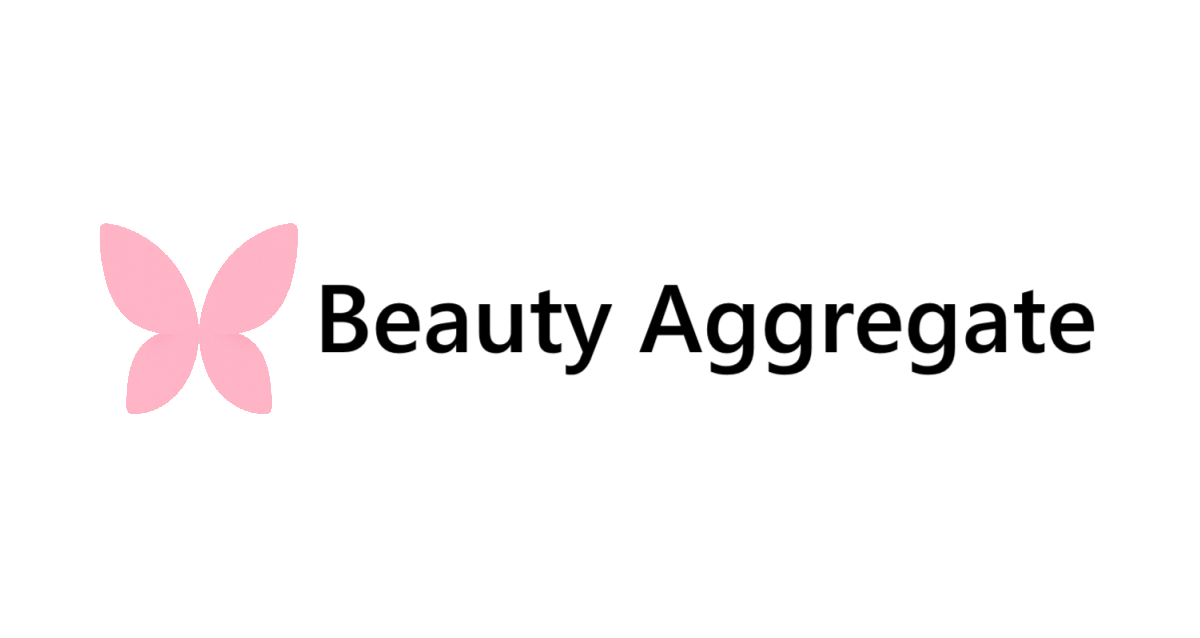
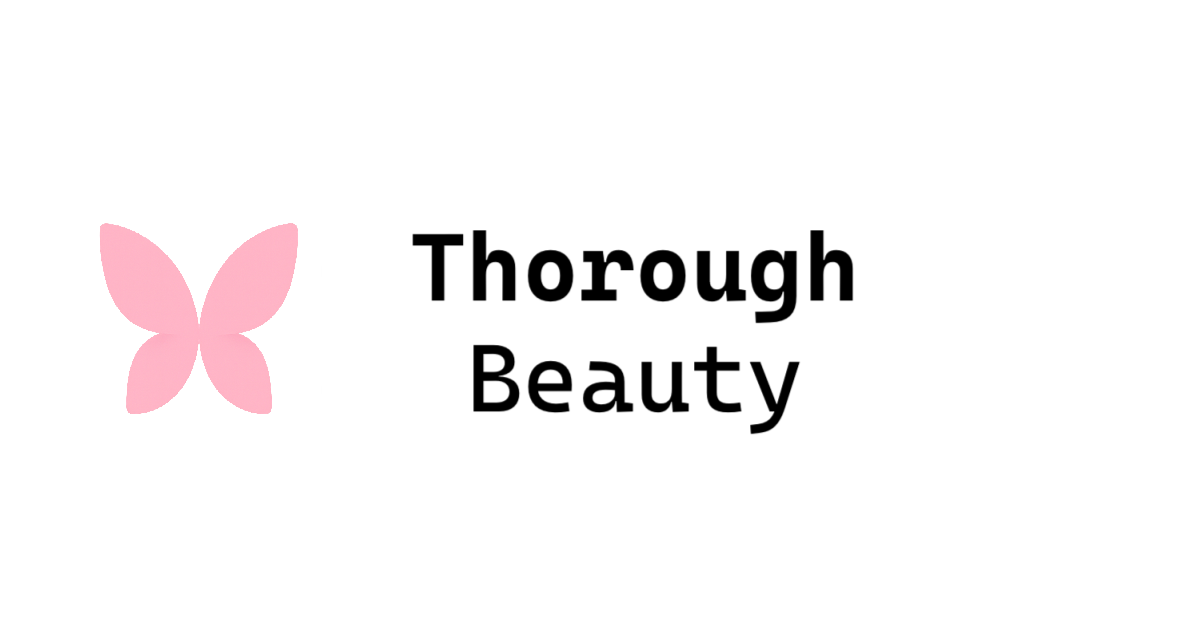
thorough beauty migration

Changed region(s): [[0.2467, 0.3574, 0.925, 0.685]]

diff --git a/src/app/about/page.tsx b/src/app/about/page.tsx
@@ -1,15 +1,19 @@
 import  { Metadata } from "next";
 
 export const metadata: Metadata = {
-    title: "About"
+    title: "About",
+    // With metadataBase set in root layout, this relative path resolves to the full canonical URL
+    alternates: {
+        canonical: "/about",
+    },
 }
 
 const jsonLd = {
   "@context": "https://schema.org",
   "@type": "AboutPage",
-  "name": "About Beauty Aggregate",
-  "url": "https://www.beautyaggregate.com/about",
-  "description": "Beauty Aggregate analyzes skincare and beauty discussions from Reddit to provide unbiased product insights and rankings. No sponsored content, no hidden agendas, just data-driven analysis.",
+  "name": "About Thorough Beauty",
+  "url": "https://www.thoroughbeauty.com/about",
+  "description": "Thorough Beauty analyzes skincare and beauty discussions from Reddit to provide unbiased product insights and rankings. No sponsored content, no hidden agendas, just data-driven analysis.",
 };
 
 
@@ -36,7 +40,7 @@ export default function AboutPage() {
             <div className="bg-base-100 p-6 shadow-lg w-full border-base-300 border rounded-none">
                 <h2 className="text-l font-semibold">Real Reviews. No Sponsorships</h2>
                 <p className="mt-4 text-sm">
-                    At Beauty Aggregate, we believe that the best beauty and skincare advice doesn’t come from ads—it comes from real people sharing real experiences. That’s why we built this site: to help you discover the most loved and most talked-about beauty and skincare products according to real users on Reddit.
+                    At Thorough Beauty, we believe that the best beauty and skincare advice doesn’t come from ads—it comes from real people sharing real experiences. That’s why we built this site: to help you discover the most loved and most talked-about beauty and skincare products according to real users on Reddit.
                 </p>
                 <p className="mt-4 text-sm">
                     Every product guide and ranking you see here is based on thousands of authentic Reddit comments from skincare communities like r/SkincareAddiction, r/AsianBeauty, r/30PlusSkinCare, and more. We analyze what people are actually saying—what they love, what they hate, and what actually works.
@@ -73,7 +77,7 @@ export default function AboutPage() {
             <div className="bg-base-100 p-6 shadow-lg w-full border-base-300 border rounded-none">
                 <h2 className="text-l font-semibold">Get in Touch</h2>
                 <p className="mt-4 text-sm">
-                    Have questions or feedback? Feel free to reach out to us at <a href="mailto:beauty.aggregate@gmail.com" className="text-blue-500 underline">beauty.aggregate@gmail.com</a>. We&apos;d love to hear your thoughts!
+                    Have questions or feedback? Feel free to reach out to us at <a href="mailto:reddit.beauty.reviews@gmail.com" className="text-blue-500 underline">Contact Us</a>. We&apos;d love to hear your thoughts!
                 </p>
             </div>
         </div>

diff --git a/src/app/posts/[slug]/page.tsx b/src/app/posts/[slug]/page.tsx
@@ -7,6 +7,7 @@ import { notFound, redirect } from "next/navigation";
 import Image from "next/image";
 import type { Metadata } from "next";
 import { Post } from "../../../types"; 
+import { APP_URL } from "@/constants";
 
 // 👇 Static mode for SEO
 export const dynamicParams = true;
@@ -66,7 +67,6 @@ const getPostBySlug = cache(async (slug: string): Promise<Post | null> => {
       seo{
         metaTitle,
         metaDescription,
-        canonicalUrl,
         ogTitle,
         ogDescription,
         ogImage{asset, alt},
@@ -159,7 +159,7 @@ export async function generateMetadata({
     };
   }
 
-  const baseUrl = "https://www.beautyaggregate.com";
+  const baseUrl = APP_URL;
   const url = `${baseUrl}/posts/${post.slug}`;
 
   const fallbackDesc = extractPlainTextDescription(post.body);
@@ -179,11 +179,8 @@ export async function generateMetadata({
       ? post.seo.twitterCard
       : "summary_large_image";
 
-  // Guard canonical to HTTPS absolute only; otherwise fallback to local URL
-  const canonicalFromCms = post.seo?.canonicalUrl;
-  const canonicalUrl = canonicalFromCms && /^https:\/\/.+/i.test(canonicalFromCms)
-    ? canonicalFromCms
-    : url;
+  // Canonical should always be our site base + slug (ignore CMS canonical)
+  const canonicalUrl = url;
 
   return {
     title: metaTitle,
@@ -205,7 +202,7 @@ export async function generateMetadata({
       description: post.seo?.ogDescription || metaDescription,
       images: bestImageUrl ? [{ url: bestImageUrl, alt: bestImageAlt }] : [],
       locale: post.locale || 'en-GB',
-      siteName: 'Beauty Aggregate',
+      siteName: 'Thorough Beauty',
       publishedTime: post.publishedAt,
       modifiedTime: post.dateModified || post.publishedAt,
       authors: post.author?.name ? [post.author.name] : undefined,
@@ -235,7 +232,7 @@ export default async function DeepDivePage({
     notFound();
   }
 
-  const baseUrl = "https://www.beautyaggregate.com";
+  const baseUrl = APP_URL;
   const pageUrl = `${baseUrl}/posts/${post.slug}`;
   const description = post.seo?.metaDescription || post.excerpt || extractPlainTextDescription(post.body);
   const heroImgRef = post.seo?.ogImage?.asset?._ref || post.ogImage?.asset?._ref || post.mainImage?.asset?._ref;

diff --git a/src/app/layout.tsx b/src/app/layout.tsx
@@ -8,19 +8,19 @@ import { GoogleAnalytics } from '@next/third-parties/google'
 
 export const metadata: Metadata = {
   title: {
-    default: "Beauty Aggregate",
-    template: "%s | Beauty Aggregate",
+    default: "Thorough Beauty",
+    template: "%s | Thorough Beauty",
   },
   description: "Discover the most talked about skincare and beauty products on Reddit.",
   keywords: [
-    "Beauty Aggregate",
-    "Beauty Aggregate skincare",
-    "Beauty Aggregate product reviews",
-    "best skincare Beauty Aggregate",
-    "beauty products ranked by Beauty Aggregate",
-    "Beauty Aggregate beauty tips"
+    "Thorough Beauty",
+    "Thorough Beauty skincare",
+    "Thorough Beauty product reviews",
+    "best skincare Thorough Beauty",
+    "beauty products ranked by Thorough Beauty",
+    "beauty tips by Thorough Beauty"
   ],
-  metadataBase: new URL("https://www.beautyaggregate.com"),
+  metadataBase: new URL("https://www.thoroughbeauty.com"),
   robots: {
     index: true,
     follow: true,
@@ -41,16 +41,16 @@ export default function RootLayout({
   const jsonLd = {
     "@context": "https://schema.org",
     "@type": "WebSite",
-    name: "Beauty Aggregate",
-    url: "https://www.beautyaggregate.com",
+    name: "Thorough Beauty",
+    url: "https://www.thoroughbeauty.com",
     description: "Discover the most talked about skincare and beauty products on Reddit.",
-    alternateName: ["Beauty Aggregate", "BeautyAggregate", "Beauty Aggregate & Skincare"],
+    alternateName: ["Thorough Beauty", "ThoroughBeauty", "Thorough Beauty & Skincare"],
   };
 
   return (
     <html lang="en" className={open_sans.className}>
       <head>
-        <meta property="og:site_name" content="Beauty Aggregate" />
+        <meta property="og:site_name" content="Thorough Beauty" />
         <script
             type="application/ld+json"
             dangerouslySetInnerHTML={{

diff --git a/src/app/posts/page.tsx b/src/app/posts/page.tsx
@@ -6,9 +6,18 @@ import Link from "next/link";
 import { PortableTextBlock } from "@portabletext/react";
 import Image from "next/image";
 import { Post } from "../../types";
+import type { Metadata } from "next";
 
 export const dynamicParams = true;
 export const revalidate = 3600;
+
+// Basic SEO metadata for the posts index page
+export const metadata: Metadata = {
+  title: "Blog Posts | Thorough Beauty",
+  description:
+    "Deep dives and data breakdowns from the Thorough Beauty team.",
+  alternates: { canonical: "/posts" },
+};
 
 const builder = imageUrlBuilder(client);
 
@@ -67,13 +76,13 @@ export default async function PostsPage() {
   const overviewJsonLd = {
     "@context": "https://schema.org",
     "@type": "Blog",
-    "name": "Beauty Aggregate | Blog",
-    "url": "https://www.beautyaggregate.com/posts",
-    "description": "Deep dives, data breakdowns, and honest skincare discussions from the Beauty Aggregate team.",
+    "name": "Thorough Beauty | Blog",
+    "url": "https://www.thoroughbeauty.com/posts",
+    "description": "Deep dives, data breakdowns, and honest skincare discussions from the Thorough Beauty team.",
     "blogPost": posts.map((post) => ({
       "@type": "BlogPosting",
       "headline": post.title,
-      "url": `https://www.beautyaggregate.com/posts/${post.slug}`,
+      "url": `https://www.thoroughbeauty.com/posts/${post.slug}`,
       ...(post.mainImage?.asset?._ref && {
         "image": urlFor(post.mainImage.asset._ref)
       }),

diff --git a/src/app/sitemap.ts b/src/app/sitemap.ts
@@ -23,18 +23,8 @@ type ProductDoc = {
   lastUpdated?: string;
 };
 
-// Guard: prefer HTTPS same-domain canonical from CMS; otherwise fallback to local site URL
-function canonicalForPost(slug: string, cmsCanonical?: string): string {
-  if (cmsCanonical) {
-    try {
-      const u = new URL(cmsCanonical);
-      if (u.protocol === "https:" && cmsCanonical.startsWith(`${APP_URL}/`)) {
-        return cmsCanonical;
-      }
-    } catch {
-      // ignore invalid URL
-    }
-  }
+// Canonical for posts: always our site base + slug
+function canonicalForPost(slug: string): string {
   return `${APP_URL}/posts/${slug}`;
 }
 
@@ -110,15 +100,14 @@ async function generateSitemap(): Promise<MetadataRoute.Sitemap> {
       && !(_id in path("drafts.**"))
     ]{
       "slug": slug.current,
-      "lastmod": coalesce(dateModified, publishedAt),
-      "canonicalUrl": seo.canonicalUrl
+      "lastmod": coalesce(dateModified, publishedAt)
     }`),
     // Categories (Firestore)
     fetchCategories()
   ]);
 
-  const postEntries: SitemapEntry[] = posts.map((post: { slug: string; lastmod?: string; canonicalUrl?: string }) => ({
-    url: canonicalForPost(post.slug, post.canonicalUrl),
+  const postEntries: SitemapEntry[] = posts.map((post: { slug: string; lastmod?: string }) => ({
+    url: canonicalForPost(post.slug),
     lastModified: post.lastmod,
   }));
 

diff --git a/src/app/faq/page.tsx b/src/app/faq/page.tsx
@@ -2,6 +2,9 @@ import { Metadata } from "next";
 
 export const metadata: Metadata = {
   title: "FAQ",
+  alternates: {
+    canonical: "/faq",
+  },
 };
 
 const jsonLd = {
@@ -55,7 +58,7 @@ const jsonLd = {
       name: "How can I suggest a product or subreddit?",
       acceptedAnswer: {
         "@type": "Answer",
-        text: "Just drop us a line at beauty.aggregate@gmail.com with the product name and subreddit link. We review all suggestions in our next data refresh.",
+        text: "Just drop us a line at reddit.beauty.reviews@gmail.com with the product name and subreddit link. We review all suggestions in our next data refresh.",
       },
     },
   ],
@@ -152,10 +155,10 @@ export default function FaqPage() {
           <dd className="mt-2 text-sm">
             Just drop us a line at{" "}
             <a
-              href="mailto:beauty.aggregate@gmail.com"
+              href="mailto:reddit.beauty.reviews@gmail.com"
               className="text-blue-500 underline"
             >
-              beauty.aggregate@gmail.com
+              reddit.beauty.reviews@gmail.com
             </a>{" "}
             with the product name and subreddit link. We review all suggestions
             in our next data refresh.

diff --git a/src/app/category/[category]/[product]/page.tsx b/src/app/category/[category]/[product]/page.tsx
@@ -118,14 +118,14 @@ export default async function ProductPage({
       name: productData.product_name,
       image: productData.image_url,
       description: `See what Reddit users think about ${productData.product_name}.`,
-      url: `https://www.beautyaggregate.com/category/${category}/${product}`,
+      url: `https://www.thoroughbeauty.com/category/${category}/${product}`,
       review: [
         {
           "@type": "Review",
           name: productData.product_name + " Editorial Review",
           author: {
             "@type": "Organization",
-            name: "Beauty Aggregate Editorial Team",
+            name: "Thorough Beauty Editorial Team",
           },
           reviewBody: productData.editorial_summary || "No editorial summary available.",
           positiveNotes:{
@@ -173,7 +173,7 @@ export default async function ProductPage({
     const webpageLd = {
       "@context": "https://schema.org",
       "@type": "WebPage",
-      url: `https://www.beautyaggregate.com/category/${category}/${product}`,
+      url: `https://www.thoroughbeauty.com/category/${category}/${product}`,
       speakable: {
         "@type": "SpeakableSpecification",
         cssSelector: ["#one-sentence-definition"]

diff --git a/src/components/banner.tsx b/src/components/banner.tsx
@@ -46,10 +46,10 @@ const Banner = () => {
     <div className="navbar bg-base-100 shadow-sm justify-between max-w-[600px] mt-2 mx-auto border-b border-gray-300 pb-4">
       {/* Left Side */}
       <Link href="/" className="btn text-xl pl-0 overflow-hidden min-h-[50px] min-w-[150px]">
-        <Image src="/beautyaggregateicon.png" alt="Icon" width={40} height={40}/>
+        <Image src="/thoroughbeautyicon.png" alt="Icon" width={40} height={40}/>
         <div className="flex flex-col items-start">
-          <p className="text-xl font-bold mb-[-10px]">Beauty</p>
-          <p className="text-xl font-bold">Aggregate</p>
+          <p className="text-xl font-bold mb-[-10px]">Thorough</p>
+          <p className="text-xl font-bold">Beauty</p>
         </div>
       </Link>
 

diff --git a/src/components/footer.tsx b/src/components/footer.tsx
@@ -8,14 +8,14 @@ const Footer = () => {
         <p className="text-xs">
           Contact:{" "}
           <a
-            href="mailto:beauty.aggregate@gmail.com"
+            href="mailto:reddit.beauty.reviews@gmail.com"
             className="text-blue-500 underline"
           >
-            beauty.aggregate@gmail.com
+            reddit.beauty.reviews@gmail.com
           </a>
         </p>
         <p className="text-xs mt-2">
-          Copyright © {new Date().getFullYear()}. All rights reserved by Beauty Aggregate
+          Copyright © {new Date().getFullYear()}. All rights reserved by Thorough Beauty
         </p>
       </aside>
     </footer>

diff --git a/src/app/page.tsx b/src/app/page.tsx
@@ -21,7 +21,7 @@ export default async function Home() {
     return (
       <div className="max-w-[600px] md:mx-auto my-[0] bg-white shadow-md items-center p-2">
         <h1 className="text-lg font-bold m-2 mt-4 text-neutral text-center">
-          Beauty Aggregate
+          Thorough Beauty
         </h1>
         <h2 className="text-sm m-2 text-gray-600 text-center mb-4">
           {" "}

diff --git a/src/app/category/[category]/page.tsx b/src/app/category/[category]/page.tsx
@@ -185,7 +185,7 @@ export default async function CategoryPage({
               name: p.product_name + " Editorial Review",
               author: {
                 "@type": "Organization",
-                name: "Beauty Aggregate Editorial Team",
+                name: "Thorough Beauty Editorial Team",
               },
               reviewBody: p.editorial_summary
             }

diff --git a/src/components/homepagecard.tsx b/src/components/homepagecard.tsx
@@ -22,7 +22,7 @@ export default function HomePageCard({
             priority={true}
             width={200}
             height={200}
-            src={thumbnailUrl || '/beautyaggregateicon.png'}
+            src={thumbnailUrl || '/thoroughbeautyicon.png'}
             alt={title}
             className="w-20 h-20 aspect-square object-contain rounded-md"
           />
